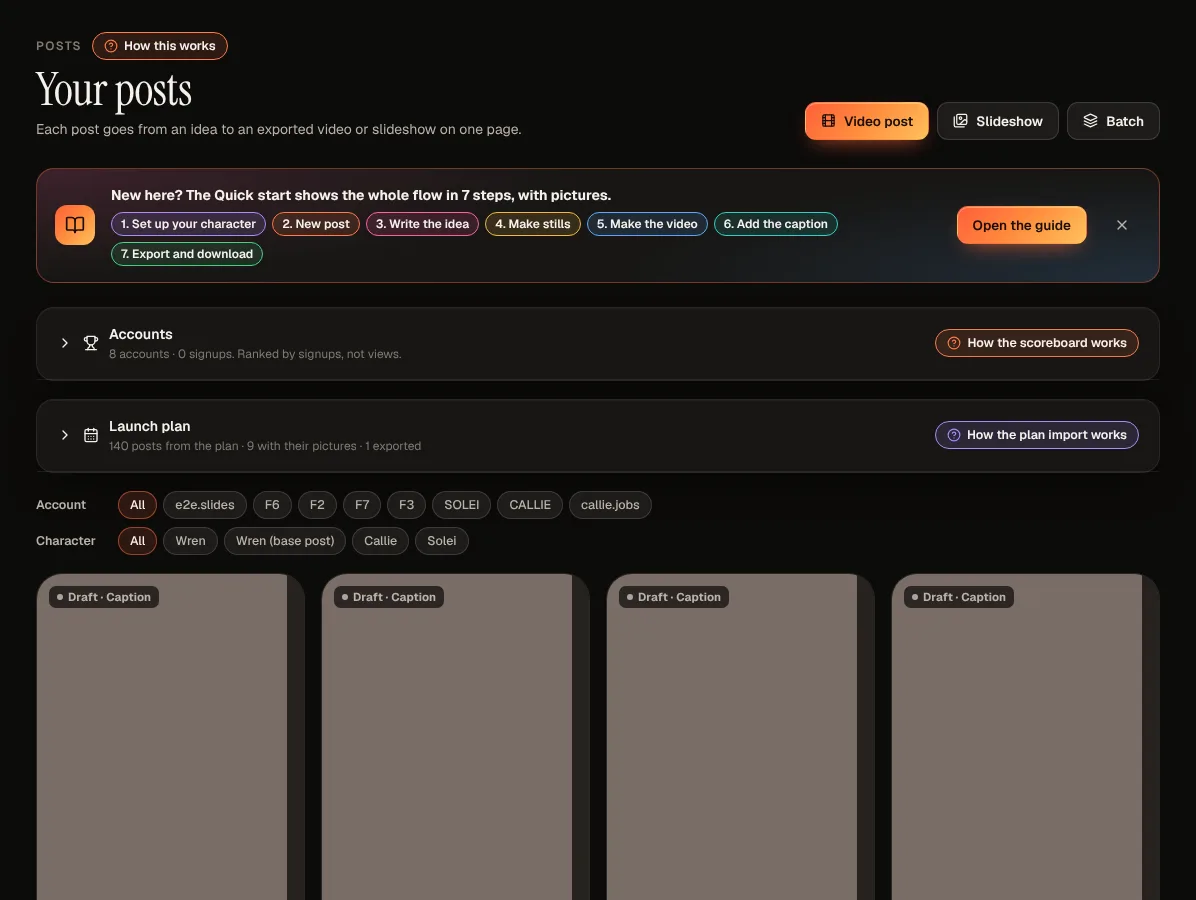
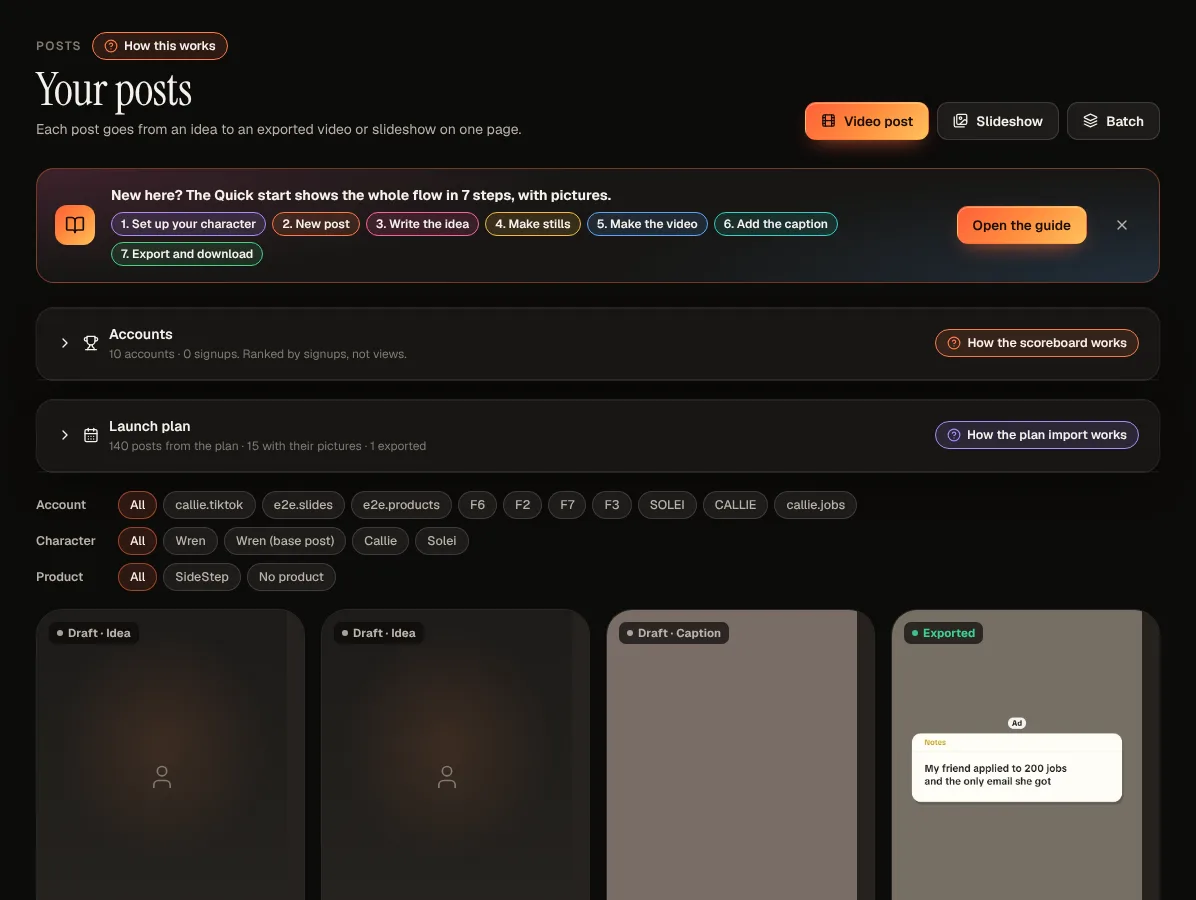
Products: guide screenshots (the Product row, the Posts filter, Accounts, writing rules, the plan import steps); the slideshow and Pick a hook browser tests pick SideStep like a user; the Draw mock screens switch beside its words
Claude-Session: https://claude.ai/code/session_01RJLxuCZHZapUYCpnq2v3M3

diff --git a/src/studio/pages/PlanCard.tsx b/src/studio/pages/PlanCard.tsx
@@ -138,7 +138,7 @@ function ImportPlan({ characters, hasPosts, onImported }: { characters: Characte
         <span className="st-label">2 · Preview (free)</span>
         <div className="st-row" style={{ gap: 8, flexWrap: 'wrap', alignItems: 'center' }}>
           <AsyncButton className="st-btn sm" disabled={!csv.trim()} title={csv.trim() ? undefined : 'Upload or paste the plan first'} busyLabel="Reading the plan..." onClick={() => check()}>Preview (free)</AsyncButton>
-          <label className="st-row" style={{ gap: 8, cursor: 'pointer' }}>
+          <label className="st-row" style={{ gap: 8, cursor: 'pointer', flex: '1 1 320px', minWidth: 0, alignItems: 'flex-start' }}>
             <button type="button" role="switch" aria-checked={draw} className={`st-switch ${draw ? 'on' : ''}`} onClick={() => { setDraw(!draw); if (preview) void check({ draw: !draw }) }}><span /></button>
             <span className="st-hint">Draw mock screens by code: a slide whose scene describes a phone screen, an email, a placard or a form is drawn by the Studio (free, the exact words). Off: every slide is a photo made from its scene.</span>
           </label>
@@ -206,7 +206,7 @@ function ImportPlan({ characters, hasPosts, onImported }: { characters: Characte
                       <td>{short(r.format)}</td>
                       <td style={{ whiteSpace: 'nowrap' }}>{r.productFrom === 'row' ? r.product : r.product ? <span className="st-muted">{r.product} (plan)</span> : <span className="st-muted">{product ? 'None' : 'The plan\'s pick'}</span>}{r.ad ? <span className="st-chip xs" style={{ marginLeft: 6 }}>Ad</span> : null}</td>
                       <td style={{ maxWidth: 380 }}><span className="st-clamp1" title={r.hook}>{r.hook}</span></td>
-                      <td>{r.state === 'update' ? <span className="st-hint">Draft exists (updated)</span> : null}{[...r.warnings, ...r.lint].length ? <span className="st-lint compact" title={[...r.warnings, ...r.lint].join('\n')}>{[...r.warnings, ...r.lint].length} note{[...r.warnings, ...r.lint].length === 1 ? '' : 's'}</span> : null}</td>
+                      <td>{r.state === 'update' ? <span className="st-hint">A draft exists (updated)</span> : null}{[...r.warnings, ...r.lint].length ? <span className="st-lint compact" title={[...r.warnings, ...r.lint].join('\n')}>{[...r.warnings, ...r.lint].length} note{[...r.warnings, ...r.lint].length === 1 ? '' : 's'}</span> : null}</td>
                     </tr>
                   ))}
                 </tbody>

diff --git a/e2e/editor/slideshow.spec.ts b/e2e/editor/slideshow.spec.ts
@@ -36,6 +36,12 @@ async function flow(page: Page, phone: boolean, info: TestInfo) {
   await page.goto(`/studio/posts/${id}`)
   await expect(page.locator('[data-field="slideshow-hook"]')).toBeVisible({ timeout: 30_000 })
 
+  // The post's product (section 29): a new post has none, so no vault. Pick SideStep.
+  const product = page.locator('[data-field="post-product"]')
+  await expect(product.getByRole('radio', { name: 'No product' })).toHaveAttribute('aria-checked', 'true')
+  await press(product.getByRole('radio', { name: 'SideStep' }), phone)
+  await expect(product.getByRole('radio', { name: /SideStep/ })).toHaveAttribute('aria-checked', 'true', { timeout: 15_000 })
+
   // Idea: 10 from the vault (free), each tagged by pattern.
   await press(page.getByRole('button', { name: /10 from the vault/ }), phone)
   const rows = page.locator('[data-field="hook-ideas"] .st-hookrow')

diff --git a/e2e/editor/sources.spec.ts b/e2e/editor/sources.spec.ts
@@ -10,6 +10,9 @@ test('Pick a hook in the Caption step becomes the caption in the editor', async 
   const step = page.locator('[data-field="step-text"]')
   await step.getByRole('button', { name: 'Pick a hook' }).click()
   const drawer = page.getByRole('dialog').filter({ hasText: 'Pick a hook' })
+  // A post with no product (section 29): pick one to browse its vault; the post stays as it is.
+  await expect(drawer.locator('[data-field="hookpicker-no-product"]')).toBeVisible({ timeout: 20_000 })
+  await drawer.getByRole('button', { name: 'SideStep' }).click()
   const first = drawer.locator('.st-hookpick').first()
   await expect(first).toBeVisible({ timeout: 20_000 })
   // The hook's words, without its number badge and kind.
